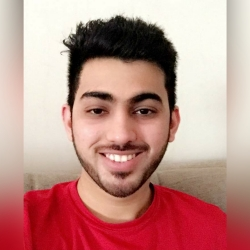
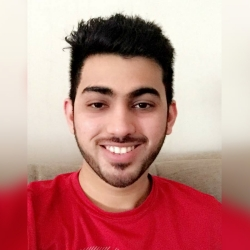
minor fixes

diff --git a/index.html b/index.html
@@ -59,11 +59,6 @@
                 </a>
               </li>
               <li class="nav-item">
-                <a class="nav-link" href="#services">
-                  Services
-                </a>
-              </li>
-              <li class="nav-item">
                 <a class="nav-link" href="#resume">
                   Resume
                 </a>

diff --git a/assets/css/main.css b/assets/css/main.css
@@ -1225,7 +1225,7 @@ a:not([href]):not([tabindex]):focus, a:not([href]):not([tabindex]):hover {
 /* Custom*/
 .img-circle {
   border-radius: 50%;
-  margin-top: 20px;
+  /* margin-top: 20px; */
 }
 
 .skill-set li{
